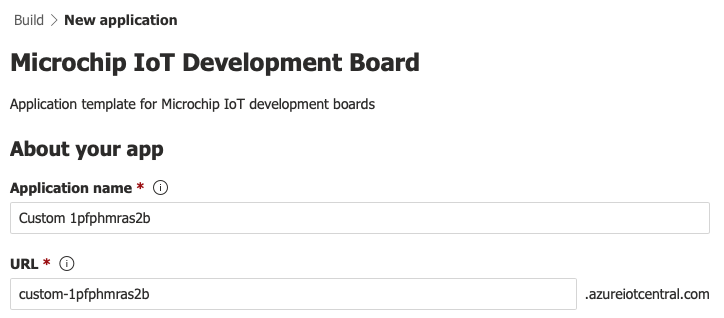
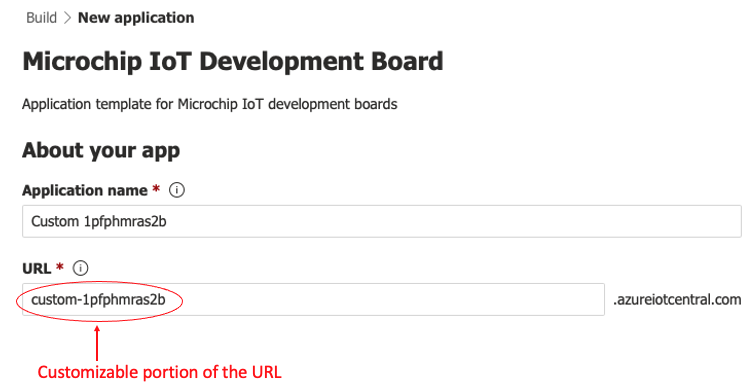
Update README (#20)

diff --git a/SAM_IoT_Central.md b/SAM_IoT_Central.md
@@ -88,9 +88,13 @@ IoT Central allows you to create an application dashboard to monitor the telemet
         <img src=".//media/image80b.png">
 
     - `Billing info` section: If there is an issue with selecting an existing subscription in the drop-down list (or no subscriptions appear in the list at all), click on the `Create subscription` link to create a new subscription to use for the creation of this application.  Take note of the exact subscription name (e.g. "Azure subscription 1" like shown in the below screen shot) which was selected as it will be needed in a future step (suggest copying/pasting the exact text into a text editor file as temporary storage for the name)
-    
+       
         <img src=".//media/image80c.png">
 
+        NOTE: If the message `Something went wrong` appears underneath the `Azure subscription` field, open up a web browser and log into your account using the [Azure portal](https://portal.azure.com) then retry selecting (or creating) a valid subscription
+
+        <img src=".//media/image80d.png">
+        
 3. Click the `Create` button (the application will be automatically saved in your [IoT Central Portal](https://apps.azureiotcentral.com))
 
 4. Using the individual enrollment method, register the device certificate with your custom IoT Central application by running the [pyazureutils](https://pypi.org/project/pyazureutils/) utility supplied by Microchip (which should already be installed) by executing the following steps:
@@ -106,7 +110,7 @@ IoT Central allows you to create an application dashboard to monitor the telemet
     - Execute the following command line (filling in each of the parameters with all your specific options). You may be prompted to log into your Microsoft Azure account if you are not currently signed in after the `pyazureutils` command starts execution
 
         ```bash
-        pyazureutils --subscription "<SUBSCRIPTION_NAME>" iotcentral register-device --certificate-file "<CERTIFICATE_NAME>" --template "<TEMPLATE_NAME>" --application-name "<APPLICATION_URL>"
+        pyazureutils --subscription "<SUBSCRIPTION_NAME>" iotcentral register-device --certificate-file "<CERTIFICATE_NAME>" --template "<TEMPLATE_NAME>" --application-name "<CUSTOMIZED_PORTION_OF_URL>"
         ```
 
         For example, based on the preceding example screenshots of building the application
@@ -114,7 +118,7 @@ IoT Central allows you to create an application dashboard to monitor the telemet
         - <SUBSCRIPTION_NAME> = Azure Subscription 1
         - <CERTIFICATE_NAME> = device.crt
         - <TEMPLATE_NAME> = SAM_IoT_WM;2
-        - <APPLICATION_URL> = custom-1pfphmras2b
+        - <CUSTOMIZED_PORTION_OF_URL> = custom-1pfphmras2b
 
         ```bash
         pyazureutils --subscription "Azure subscription 1" iotcentral register-device --certificate-file "device.crt" --template "SAM_IoT_WM;2" --application-name "custom-1pfphmras2b"

diff --git a/README.md b/README.md
@@ -154,6 +154,8 @@ Refer to the following links for additional information for IoT Explorer, IoT Hu
 
 •	[How to use IoT Explorer to interact with the device](https://docs.microsoft.com/en-us/azure/iot-pnp/howto-use-iot-explorer#install-azure-iot-explorer)
 
+•	[Azure IoT Central - All Documentation](https://docs.microsoft.com/en-us/azure/iot-central/)
+
 •	[Create an Azure IoT Central application](https://docs.microsoft.com/en-us/azure/iot-central/core/quick-deploy-iot-central)
 
 •	[Manage devices in your Azure IoT Central application](https://docs.microsoft.com/en-us/azure/iot-central/core/howto-manage-devices)
